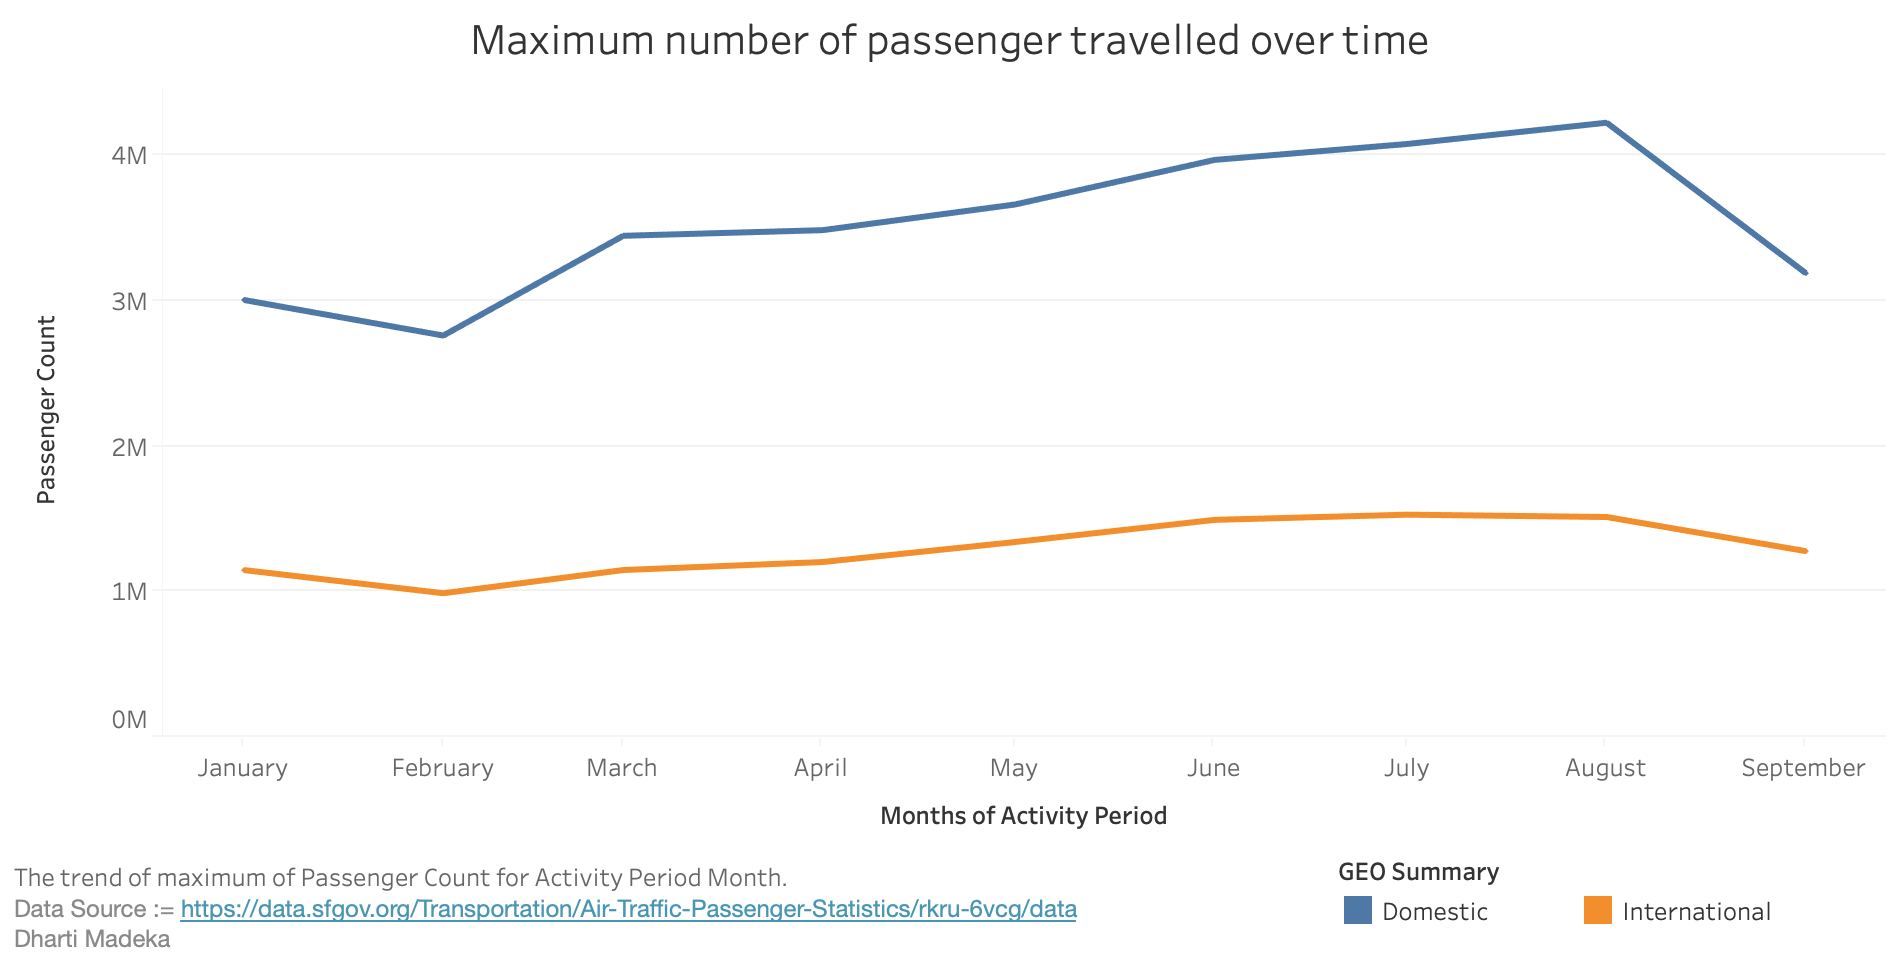
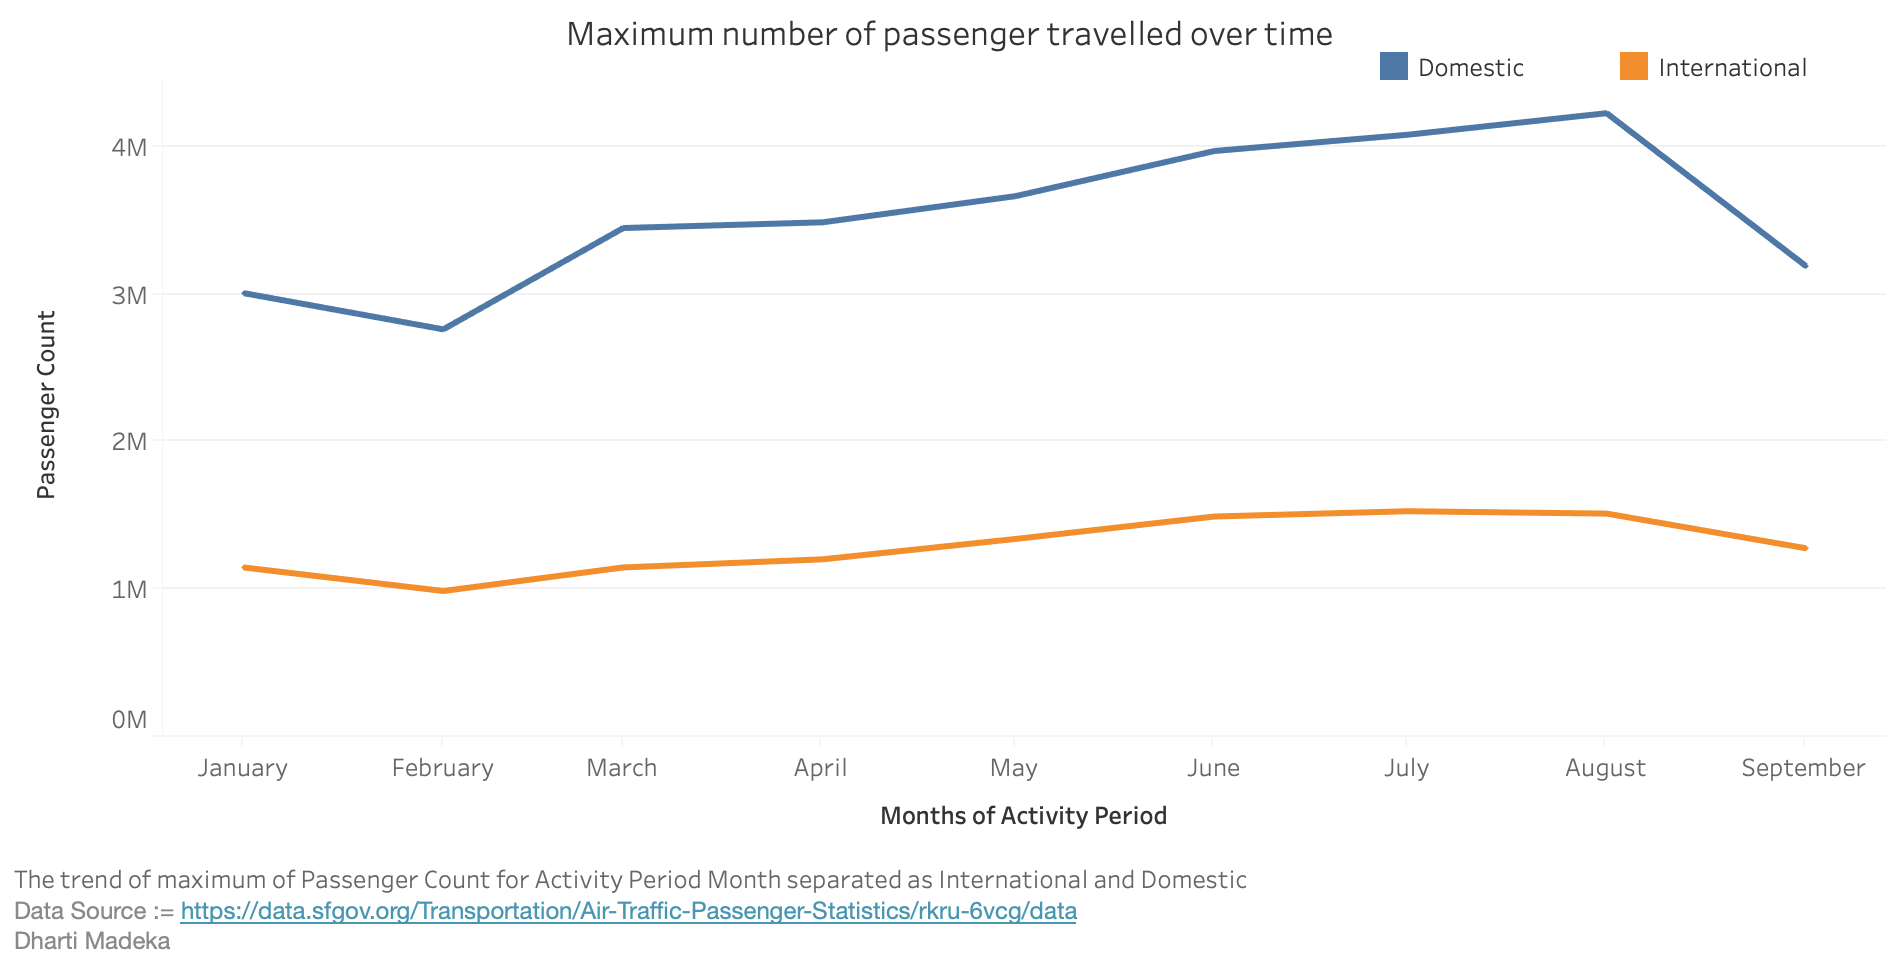
completed homework, TODO:// remove extra code and clean it

diff --git a/chart.js b/chart.js
@@ -63,7 +63,7 @@ let drawBarChart = function(data){
         .attr("class", "x-axis-label")
         .attr("dx","1em")
         .attr("transform",
-        "translate(" + (plotWidth/2) + " ," +
+        "translate(" + (plotWidth/2 + margin.right)  + " ," +
                                  (margin.top) + ")")
       .style("text-anchor", "middle")
       .text("Terminal");
@@ -73,10 +73,10 @@ let drawBarChart = function(data){
         .attr("class", "y-axis-label")
         .attr("transform", "rotate(-90)")
         .attr("y", 0 - margin.right + 20)
-        .attr("x",0 - (plotHeight / 2))
+        .attr("x",0 - (plotHeight / 2 + margin.top))
         .attr("dy", "1em")
         .style("text-anchor", "middle")
-        .text("Max Number of Passenger Count");
+        .text("Max. Passenger Count");
     // for graph title
     svg.append("text")
     .attr("class", "title")
@@ -128,17 +128,15 @@ let drawBarChart = function(data){
    var monthsNames = ['January','February','March','April','May','June','July','August','September','October','November','December'];
 
    //count num of pas for each month (combine months)
-   let monthly = Object.values(data.reduce((r, o) => {
-     r[o.date.getMonth()] = r[o.date.getMonth()] || {month: monthsNames[o.date.getMonth()], num : 0};
-     r[o.date.getMonth()].num += +o.num;
-     return r;
-   },{}))
+   // let monthly = Object.values(data.reduce((r, o) => {
+   //   r[o.date.getMonth()] = r[o.date.getMonth()] || {month: monthsNames[o.date.getMonth()], num : 0};
+   //   r[o.date.getMonth()].num += +o.num;
+   //   return r;
+   // },{}))
 
    //console.log(monthly);
 
-      //gives passenger counts
-      let passengerCount = monthly.map(d => d.num);
-      
+
       //separate data from geo summary
       var lineData = {
       International: [],
@@ -157,9 +155,9 @@ let drawBarChart = function(data){
           'num' : d.num,
           'date' : d.date
         })
-
       }
     });
+    console.log(lineData.Domestic);
     //got separate data for international and domestic
     let International =  Object.values(lineData.International.reduce((r, o) => {
       r[o.date.getMonth()] = r[o.date.getMonth()] || {month: monthsNames[o.date.getMonth()], num : 0};
@@ -173,6 +171,9 @@ let drawBarChart = function(data){
       return r;
     },{}))
     console.log(Domestic);
+
+    //gives passenger counts
+    let passengerCount = Domestic.map(d => d.num);
 
       let min = 0;
       let max = d3.max(passengerCount); //use same for bar chart
@@ -188,7 +189,7 @@ let drawBarChart = function(data){
       top:    60,
       right:  20,
       bottom: 40,
-      left:  70
+      left:  50
       };
 
       // now we can calculate how much space we have to plot
@@ -201,7 +202,7 @@ let drawBarChart = function(data){
         .range([plotHeight, 0])
       //	.nice(); // rounds the domain a bit for nicer output
 
-      let months = monthly.map(d => d.month);
+      let months = Domestic.map(d => d.month);
       //console.log(months);
     //  months.sort();
       let monthXScale = d3.scaleBand()
@@ -226,42 +227,36 @@ let drawBarChart = function(data){
       let yGroup = plot.append("g").attr("id", "y-axis");
       yGroup.call(yAxis);
 
-
-      let pairs = Array.from(monthly);
+//ADD Line to graph
+      //let pairs = Array.from(monthly);
 
       let line1 = d3.line()
             //x(function(d){return 5})
-            .x(function(d) {return (monthXScale(d.month)+ 100)})
-            .y(function(d) {return passengerYScale(d.num)});
-      let line2 = d3.line()
-            //x(function(d){return 5})
             .x(function(d) {return (monthXScale(d.month) + 100)})
-            .y(function(d) {return passengerYScale(d.num)});
-            // .x(function(d) {let monthtoPlot = d.date.getMonth(); return (monthXScale(months[monthtoPlot]) + 50)})
-            // .y(function(d) {return passengerYScale(d.num)});
+            .y(function(d) {return passengerYScale(d.num) + margin.top + 2});
 
 // CODE FOR MULTI LINE
 svg.append("path")
-      .datum(International)
+      .datum(Domestic)
       .attr("fill", "none")
       .attr("stroke", "steelblue")
       .attr("stroke-linejoin", "round")
       .attr("stroke-linecap", "round")
-      .attr("stroke-width", 1.5)
+      .attr("stroke-width", 3)
       .attr("width", monthXScale.bandwidth())
       .attr("height", function(d) { return plotHeight - passengerYScale(d.num)})
       .attr("d", line1);
 
     svg.append("path")
-      .datum(Domestic)
+      .datum(International)
       .attr("fill", "none")
-      .attr("stroke", "tomato")
+      .attr("stroke", "orange")
       .attr("stroke-linejoin", "round")
       .attr("stroke-linecap", "round")
-      .attr("stroke-width", 1.5)
+      .attr("stroke-width", 3)
       .attr("width", monthXScale.bandwidth())
       .attr("height", function(d) { return plotHeight - passengerYScale(d.num)})
-      .attr("d", line2);
+      .attr("d", line1);
 // CODE FOR MULTI-LINE IS OVER
 
 //CODE FOR SINGLE LINE
@@ -279,7 +274,7 @@ svg.append("path")
           .attr("class", "x-axis-label")
           .attr("dx","1em")
           .attr("transform",
-          "translate(" + (plotWidth/2) + " ," +
+          "translate(" + (plotWidth/2 + margin.right + 10) + " ," +
                                    (plotHeight + margin.top + 35) +")")
         .style("text-anchor", "middle")
         .text("Months of Activity Period");
@@ -289,19 +284,18 @@ svg.append("path")
           .attr("class", "y-axis-label")
           .attr("transform", "rotate(-90)")
           .attr("y", 0 - margin.right + 20)
-          .attr("x",0 - (plotHeight / 2))
+          .attr("x",0 - (plotHeight / 2 + margin.top))
           .attr("dy", "1em")
           .style("text-anchor", "middle")
           .text("Passenger Count");
       // for graph title
       svg.append("text")
       .attr("class", "title")
-      .attr("x", (plotWidth / 2))
+      .attr("x", (plotWidth / 2 + (2*margin.right)))
       .attr("y", 0 + (margin.top / 2))
       .attr("text-anchor", "middle")
       .text("Maximum number of passengers travelled over time ");
 
-      //grid lines
       // Gridline
     var gridlines = d3.axisLeft()
                        .tickFormat("")
@@ -312,11 +306,35 @@ svg.append("path")
         .attr("class", "grid")
         .attr("transform", "translate(" + margin.left + "," + margin.top + ")")
         .call(gridlines);
+    //legends
+    svg.append("rect")
+      .attr("x", plotWidth - margin.right - margin.left - margin.top - margin.bottom)
+      .attr("y", margin.top /2)
+      .attr("width", 15)
+      .attr("height", 15)
+      .style("fill", "steelblue")
+    svg.append("rect")
+        .attr("x", plotWidth - margin.right - margin.left + 10)
+        .attr("y", margin.top /2)
+        .attr("width", 15)
+        .attr("height", 15)
+        .style("fill", "orange")
+    svg.append("text")
+    .attr("x", plotWidth - margin.right - margin.left - margin.top - margin.bottom + 19)
+    .attr("y", margin.top/2 + 10)
+    .text("Domestic")
+    .style("font-size", "12px")
+    .attr("alignment-baseline","middle")
+    svg
+    .append("text")
+    .attr("x", plotWidth + margin.right - margin.left - 10)
+    .attr("y", margin.top/2 + 10)
+    .text("International")
+    .style("font-size", "12px")
+    .attr("alignment-baseline","middle")
+
 };
 
 function translate(x, y) {
   return 'translate(' + x + ',' + y + ')';
 }
-
-    // so we can access some of these elements later...
-    // add them to our chart global

diff --git a/linechart.html b/linechart.html
@@ -114,7 +114,8 @@
         </p>
 
         <p>This page shows visualization of line chart. Used tableau to create it. <br/>
-          Kept x-axis as Activity period, which was further filtered out to get months in year 2019 and y-axis as passenger count. </p>
+          Kept x-axis as Activity period, which was further filtered out to get months in year 2019 and y-axis as passenger count.
+          Geo Summary is separated using color scheme for blue as Domestic and orange as International. </p>
 
         <p><img src="multilinechart.png" alt="line chart prototype" width="960" height="500"/></p>
 
@@ -123,7 +124,7 @@
     <div id="vis">
       <svg class="linechart">
         <div>
-          <caption><strong>Caption: </strong> The trend of maximum number of Passenger Count for Activity Period Month. <br/>
+          <caption><strong>Caption: </strong> The trend of maximum Passenger Count for Activity Period Month separated as International and Domestic. <br/>
             Data Source := <a href="https://data.sfgov.org/Transportation/Air-Traffic-Passenger-Statistics/rkru-6vcg/data">
                     https://data.sfgov.org/Transportation/Air-Traffic-Passenger-Statistics/rkru-6vcg/data
               </a><br/>
@@ -145,10 +146,10 @@
     <p> Passenger count is encoded along y-axis, and x-axis has time period. line represent maximum number of passengers travlled over time period.
       Used d3 and <a href="https://data.sfgov.org/Transportation/Air-Traffic-Passenger-Statistics/rkru-6vcg/data">
       Air-Traffic-Passenger-Statistics</a> to wrangle dataset. Filter out dataset using the source link. Manipulated Activity_period field from "text" to date type and
-      converted Passenger_Count from text to number using JavaScript.
+      converted Passenger_Count from text to number using JavaScript. Group International and Domestic over months and passenger count .
 
       This visualization can conclude that in the month of July and August maximum number of passengers travelled because at this time, there are students flying internationally,
-    as well as domestic people get back from their summer break. </p>
+    as well as domestic people get back from their summer break. There was maximum passenger from Domestic flights over International. </p>
 
     <span class="heading">Acknowledgements</span>
 
@@ -157,7 +158,8 @@
     </p>
 
     <p class="is-6">
-      <em>Thanks to Professor Sophie to guide me for axis data format.</em>
+      <em>Thanks to Professor Sophie to guide me for axis data format.</em><br/>
+      <em>Thanks to Allison Wong to help me with multi-line graph</em>
     </p>
 
     <h2 id="about">About</h2>

diff --git a/areachart.html b/areachart.html
@@ -15,13 +15,6 @@
     <script defer src="https://use.fontawesome.com/releases/v5.3.1/js/all.js"></script>
     <!-- this allows us to use the non-standard Roboto web font -->
     <link href="https://fonts.googleapis.com/css?family=Roboto:300,300italic" rel="stylesheet" type="text/css">
-    <!-- include d3.js v5 -->
-    <script src="https://d3js.org/d3.v5.min.js"></script>
-
-    <!-- include d3.js modules -->
-    <script src="https://d3js.org/d3-array.v2.min.js"></script>
-    <script src="chart.js"></script>
-    <script src="countData.js" charset="utf-8"></script>
   </head>
 
   <body>
